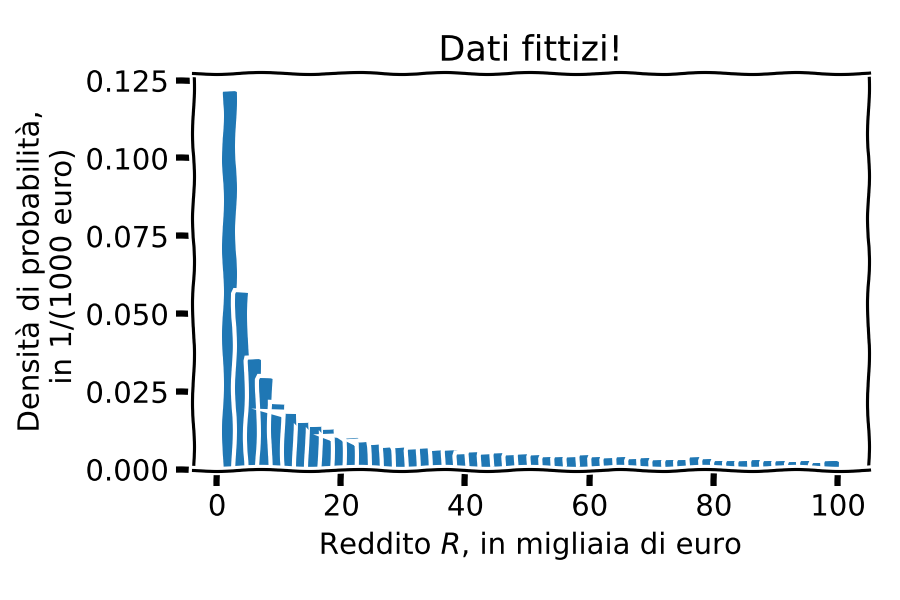
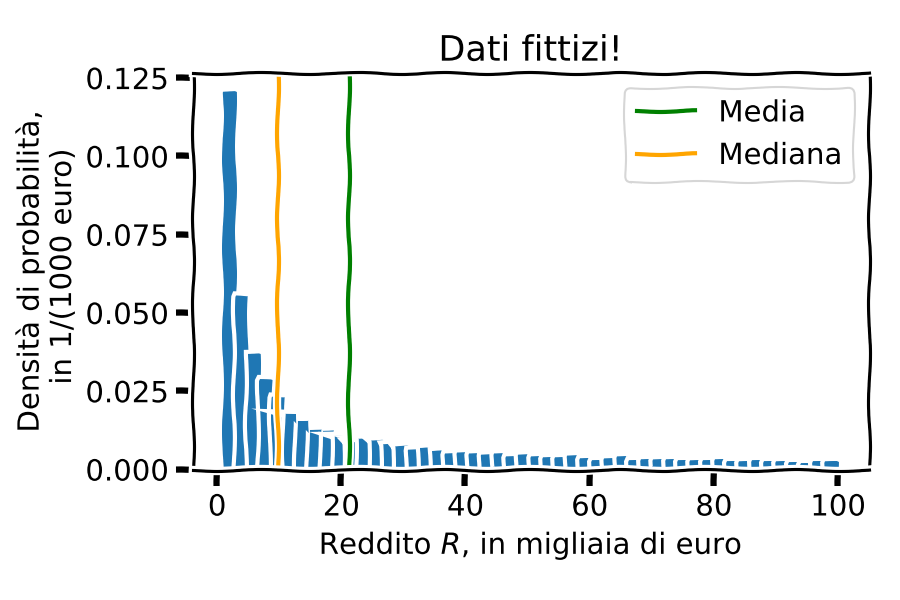
nuovo README

diff --git a/log-scaling.py b/log-scaling.py
@@ -34,14 +34,20 @@ def loguniform(a, b, rng=rng, **kwargs):
 
 data = loguniform(1, 100, size=10_000)
 
+avg = np.average(data)
+std = np.std(data)
+med = np.median(data)
 
 # %%
 
 with plt.xkcd():
     plt.title('Dati fittizi!')
     plt.hist(data, bins=50, density=True)
+    plt.axvline(avg, label='Media', c='green')
+    plt.axvline(med, label='Mediana', c='orange')
     plt.xlabel('Reddito $R$, in migliaia di euro')
     plt.ylabel('Densità di probabilità,\n in 1/(1000 euro)')
+    plt.legend()
     plt.tight_layout()
     plt.savefig('figures/fictitious-income-linear.png', dpi=150)
 
@@ -49,12 +55,21 @@ with plt.xkcd():
 
 with plt.xkcd():
     plt.title('Dati fittizi!')
-    plt.hist(data, bins=30, density=True)
+    v = plt.hist(data, bins=30, density=True)
     plt.xscale('log')
     plt.xlabel('Reddito $R$, in migliaia di euro')
     plt.ylabel('Densità di probabilità,\n in 1/(1000 euro)')
     plt.tight_layout()
     plt.savefig('figures/fictitious-income-log1.png', dpi=150)
+
+#%%
+
+# Se invece non mettiamo i bins! 
+with plt.xkcd():
+    v = plt.hist(data, bins=30, density=True)
+    plt.plot( (v[1][1:] + v[1][:-1] ) / 2, v[0])
+    plt.xscale('log')
+
 # %%
 
 with plt.xkcd():

diff --git a/italia-elezioni.py b/italia-elezioni.py
@@ -192,16 +192,21 @@ comuni_grandi_legend = {
     for idx in comuni_grandi_idx
 }
 
-comuni_grandi_legend.pop('VERONA')
-comuni_grandi_legend.pop('GENOVA')
-comuni_grandi_legend.pop('BARI')
-comuni_grandi_legend.pop('TORINO')
-comuni_grandi_legend.pop('VENEZIA')
-comuni_grandi_legend.pop('MESSINA')
-comuni_grandi_legend.pop('TRIESTE')
-comuni_grandi_legend.pop('PADOVA')
-comuni_grandi_legend.pop('MODENA')
-comuni_grandi_legend.pop('BRESCIA')
+da_rimuovere = [
+    'VERONA',
+    'GENOVA',
+    'BARI',
+    'TORINO',
+    'VENEZIA',
+    'MESSINA',
+    'TRIESTE',
+    'PADOVA',
+    'MODENA',
+    'BRESCIA',
+]
+
+for comune in da_rimuovere:
+    comuni_grandi_legend.pop(comune)
 
 
 comuni_grandi_labels = list(comuni_grandi_legend.keys())

diff --git a/README.md b/README.md
@@ -1,2 +1,23 @@
 ### Codice per il modulo di visualizzazione dati - SSA 2021
 
+#### Prima lezione
+
+Useremo due notebooks i cui contenuti sono all'incirca quelli dei files `intro.py` e `smoking.py`, 
+ma in due nuove versioni implementate in Google Colab, con più commenti. 
+
+- [Intro notebook](https://colab.research.google.com/drive/1FksVfusUPYSQc3KE3ZCXYHXhEfErl8yk?usp=sharing)
+- [Smoking notebook](https://colab.research.google.com/drive/1Zf2vH47RrQuISRhskR9vKmnacqPpqg8m?usp=sharing)
+
+#### Seconda lezione
+
+Gli altri files contenuti in questa cartella servono a generare alcune delle figure utilizzate nelle slides, tranne `SSA 2021 - Notes.md`, appunti per questo corso non particolarmente ben tenuti ma che magari possono essere utili per qualcosa.
+
+Nello specifico abbiamo:
+- `bertrand.py`, che può generare distribuzioni di corde e figure per discutere il  [paradosso di Bertrand](https://it.wikipedia.org/wiki/Paradosso_di_Bertrand);
+- `italia-elezioni.py` genera un grafico tripartito che rappresenta in modo alternativo i risultati delle elezioni nel 2018;
+- `log-scaling.py` genera alcuni grafici fittizi, stile [xkcd](https://xkcd.com/), che illustrano i problemi di assi logaritmici, specie per gli istogrammi - vedi anche [questo articolo](http://arxiv.org/abs/2003.14327);
+- `temperature-kelvin.py` illustra un piccolo punto riguardo al mettere lo zero dell'asse y a zero;
+- `projections.py` genera mappe e proiezioni complete di indicatrici di Tissot con il modulo [cartopy](https://scitools.org.uk/cartopy/docs/latest/).
+
+
+Per alcune altre informazioni su come fare grafici digitalmente [questo articolo](http://www.sciencedirect.com/science/article/pii/S0264127519303065) è molto utile; in più consiglio lo storico libro di [Tufte](https://www.edwardtufte.com/tufte/books_vdqi).
